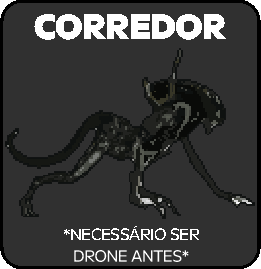
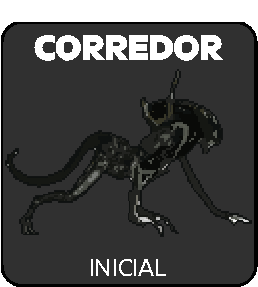
Add files via upload

diff --git a/index.html b/index.html
@@ -47,8 +47,8 @@
          <h3>Como começar:</h3>
         </div>
 
-      <h2>Primeiro, crie a ficha de sua rainha, e especifique em qual planeta sua colméia está localizada.</h2>
-      <h2>Sua rainha começará sem rank e ganhará 2 NPC's que chamaremos de soldados e serão utilizados em batalhas.</h2>
+      <h2>Primeiro, crie a ficha de sua rainha, e especifique em qual planeta sua colméia está localizada. Deixarei um modelo de ficha no final para facilitar seu processo.</h2>
+      <h2>Sua rainha começará sem rank e ganhará 2 NPC's que chamaremos de soldados e serão utilizados em batalhas. Sua colmeia ainda terá muitos operários trabalhando, mas eles não poderão lutar, apenas soldados, então nada de comandar meio milhão de xenos para atacar uma pessoa.</h2>
 
       <div class="implantes">
         <h3>Recompenas por rank/tier:</h3>
@@ -115,8 +115,8 @@
         <h3>Sobre os soldados</h3>
     </div>
 
-       <h2>Você começará com 2 Drones e deverá utilizar eles em conjunto com sua rainha, a personalização destes Drones ficam por sua conta.
-        Você deverá se envolver em batalhas e defender sua rainha utilizando apenas eles, e caso sejam mortos em combate, não se preocupe, ao meio dia, todas as colméias que não estiverem em combate terão seus soldados ressucitados/recarregados.
+       <h2>Você começará com 2 soldados iniciais, podendo ser Drone ou Corredor, e deverá utilizar eles em conjunto com sua rainha.
+        Você deverá se envolver em batalhas e defender sua rainha utilizando APENAS eles, e caso sejam mortos em combate, não se preocupe, ao meio dia, todas as colméias que não estiverem em combate terão seus soldados ressucitados.
        </h2>
 
 
@@ -124,35 +124,21 @@
         <h3>Castas</h3>
     </div>
 
-        <h2>Você receberá pontos de casta que servirão para melhorar a casta dos seus soldados, confira abaixo castas disponíveis e toque para acessar a wiki de cada uma:</h2>
+        <h2>Você receberá pontos de casta que servirão para melhorar a casta dos seus soldados, confira abaixo a árvore evolutiva:</h2>
 
-        <div id="catalog2">
-
-            <div class="produto2">
-                <a href="http://aminoapps.com/p/rjsx4u"><img src="imagens/a1.png" alt=""></a>
-            </div>
-            <div class="produto2">
-                <a href="http://aminoapps.com/p/m7y8l4"><img src="imagens/a2.png" alt=""></a>
-            </div>
-            <div class="produto2">
-                <a href="http://aminoapps.com/p/bzo4q6"><img src="imagens/a3.png" alt=""></a>
-            </div>
-            <div class="produto2">
-                <a href="http://aminoapps.com/p/u7zzqw"><img src="imagens/a4.png" alt=""></a>
-            </div>
-            <div class="produto2">
-                <a href="http://aminoapps.com/p/cla41a"><img src="imagens/a5.png" alt=""></a>
-            </div>
-            <div class="produto2">
-                <a href="http://aminoapps.com/p/6r02rrx"><img src="imagens/a6.png" alt=""></a>
-            </div>
-            <div class="produto2">
-                <a href="http://aminoapps.com/p/r96528"><img src="imagens/a7.png" alt=""></a>
-            </div>
-            <div class="produto2">
-                <a href="http://aminoapps.com/p/y1qu9fl"><img src="imagens/a8.png" alt=""></a>
-            </div>
-           
+        <div id="catalog">
+            <a href="arvore.html">
+                <div class="produto">
+                    <img class="missoes" src="imagens/a1.png" alt="">
+                </div>
+            </a>
+            
+            <a href="ficha.html">
+                <div class="produto">
+                    <img class="missoes" src="imagens/a2.png" alt="">
+                </div>
+            </a>
+          
         </div>
 
         <div id="baixo">

diff --git a/arvore.html b/arvore.html
@@ -1,0 +1,60 @@
+<!DOCTYPE html>
+<html lang="pt-br">
+<head>
+    <meta charset="UTF-8">
+    <meta name="viewport" content="width=device-width, initial-scale=1.0">
+    <link rel="stylesheet" href="style.css">
+    <link rel="icon" href="imagens/logo.png">
+    <script src="https://unpkg.com/scrollreveal"></script>
+    <link rel="stylesheet" href="https://cdnjs.cloudflare.com/ajax/libs/font-awesome/6.6.0/css/all.min.css" integrity="sha512-Kc323vGBEqzTmouAECnVceyQqyqdsSiqLQISBL29aUW4U/M7pSPA/gEUZQqv1cwx4OnYxTxve5UMg5GT6L4JJg==" crossorigin="anonymous" referrerpolicy="no-referrer" />
+    <title>Sistema de Colméias</title>
+</head>
+<body>
+    <div id="conteudo">
+        <div id="topo">
+            <img src="imagens/topo.png" alt="">
+        </div>
+    
+        <div id="logo">
+            <img src="imagens/logo.png" alt="">
+        </div>
+
+        <div class="implantes">
+            <h3>Árvore evolutiva</h3>
+        </div>
+        <br>
+
+       <div id="catalog">
+
+            <div class="produto">
+                <img class="missoes" src="imagens/a3.png" alt="">
+            </div>
+
+
+            <div class="produto">
+                <img class="missoes" src="imagens/a4.png" alt="">
+            </div>
+
+            <a href="index.html">
+                <div class="produto">
+                    <img class="missoes" src="imagens/inicio.png" alt="">
+                </div>
+            </a>
+        </div>
+
+        <h2>Será colado nos comentários de sua ficha esta imagem indicando quantos e quais soldados você tem.</h2>
+
+        <div id="arvore">
+            <img src="imagens/arvore.png" alt="">
+        </div>
+
+        <h2>Todas as informações das castas se encontram na wiki da comunidade, porém em breve colocarei o link aqui.</h2>
+
+        <div id="baixo">
+            <img src="imagens/baixo.png" alt="">
+        </div>
+
+    <script src="script.js">
+    </script>
+</body>
+</html>

diff --git a/ficha.html b/ficha.html
@@ -1,0 +1,47 @@
+<!DOCTYPE html>
+<html lang="pt-br">
+<head>
+    <meta charset="UTF-8">
+    <meta name="viewport" content="width=device-width, initial-scale=1.0">
+    <link rel="stylesheet" href="style.css">
+    <link rel="icon" href="imagens/logo.png">
+    <script src="https://unpkg.com/scrollreveal"></script>
+    <link rel="stylesheet" href="https://cdnjs.cloudflare.com/ajax/libs/font-awesome/6.6.0/css/all.min.css" integrity="sha512-Kc323vGBEqzTmouAECnVceyQqyqdsSiqLQISBL29aUW4U/M7pSPA/gEUZQqv1cwx4OnYxTxve5UMg5GT6L4JJg==" crossorigin="anonymous" referrerpolicy="no-referrer" />
+    <title>Sistema de Colméias</title>
+</head>
+<body>
+    <div id="conteudo">
+        <div id="topo">
+            <img src="imagens/topo.png" alt="">
+        </div>
+    
+        <div id="logo">
+            <img src="imagens/logo.png" alt="">
+        </div>
+
+        <div class="implantes">
+            <h3>MODELO DE FICHA</h3>
+        </div>
+        <H2>Aqui deixarei principais informações que sua ficha deverá conter.</H2>
+        <div class="implantes">
+            <h3 class="h3">Nome/Apelido</h3>
+        </div>
+        <div class="implantes">
+            <h3 class="h3">Local da colmeia</h3>
+        </div>
+        <div class="implantes">
+            <h3 class="h3">Soldados Iniciais</h3>
+        </div>
+        <h2>Precisará dizer se começou com 2 drones, 2 runners ou 1 de cada.</h2>
+        <div class="implantes">
+            <h3 class="h3">Aparência</h3>
+        </div>
+
+        <div id="baixo">
+            <img src="imagens/baixo.png" alt="">
+        </div>
+
+    <script src="script.js">
+    </script>
+</body>
+</html>

diff --git a/style.css b/style.css
@@ -92,7 +92,18 @@ h3{
     z-index: +100;
 }
 
-
+.h3{
+    font-family: "Work Sans", sans-serif;
+    font-weight: 300;
+    font-size: 14pt;
+    color: white;
+    background-color: rgb(25, 65, 80);
+    border-radius: 5px;
+    width: 250px;
+    padding-top: 2px;
+    padding-bottom: 2px;
+    text-align: center;
+}
 
 #catalog{
     width: 100%;
@@ -142,3 +153,13 @@ h3{
 #baixo img{
     width: 100%;
 }
+
+#arvore img{
+    width: 95%;
+}
+#arvore{
+    display: flex;
+    align-items: center;
+    justify-content: center;
+}
+
